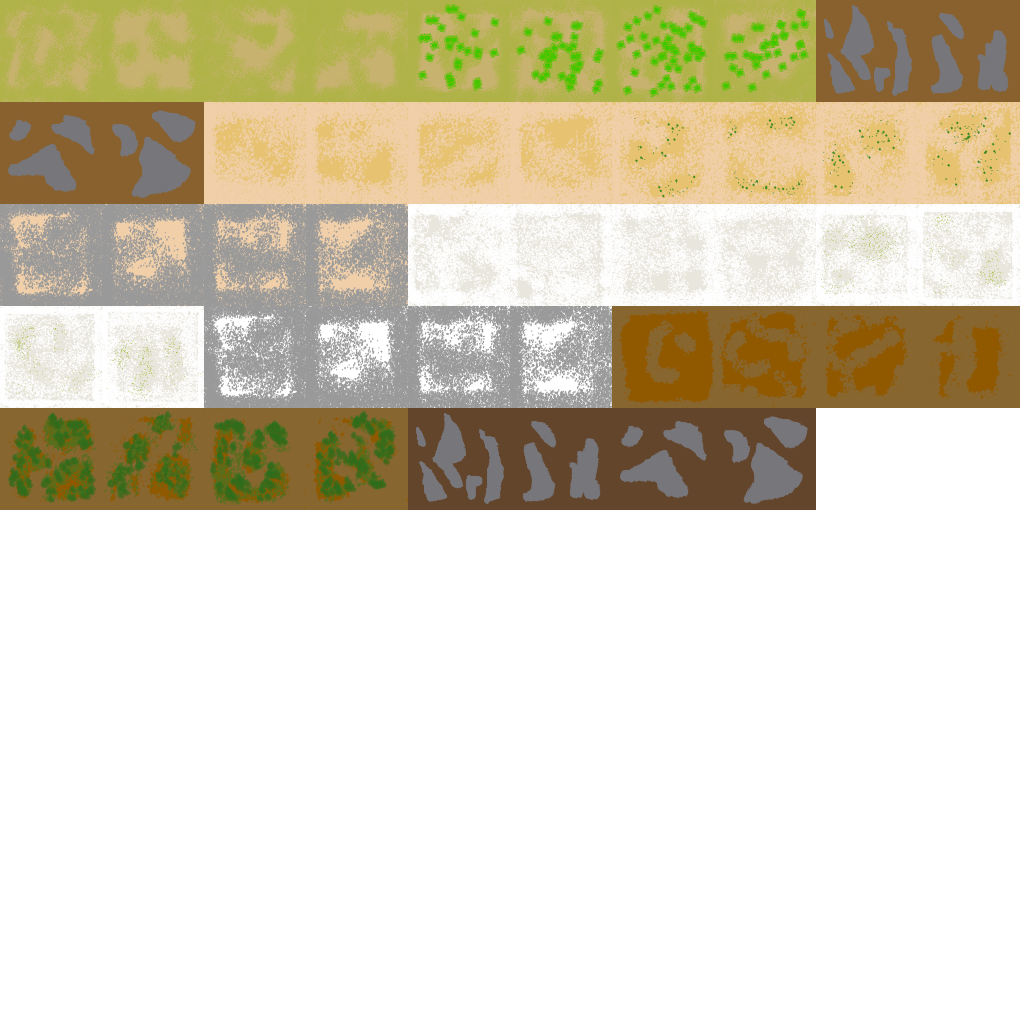
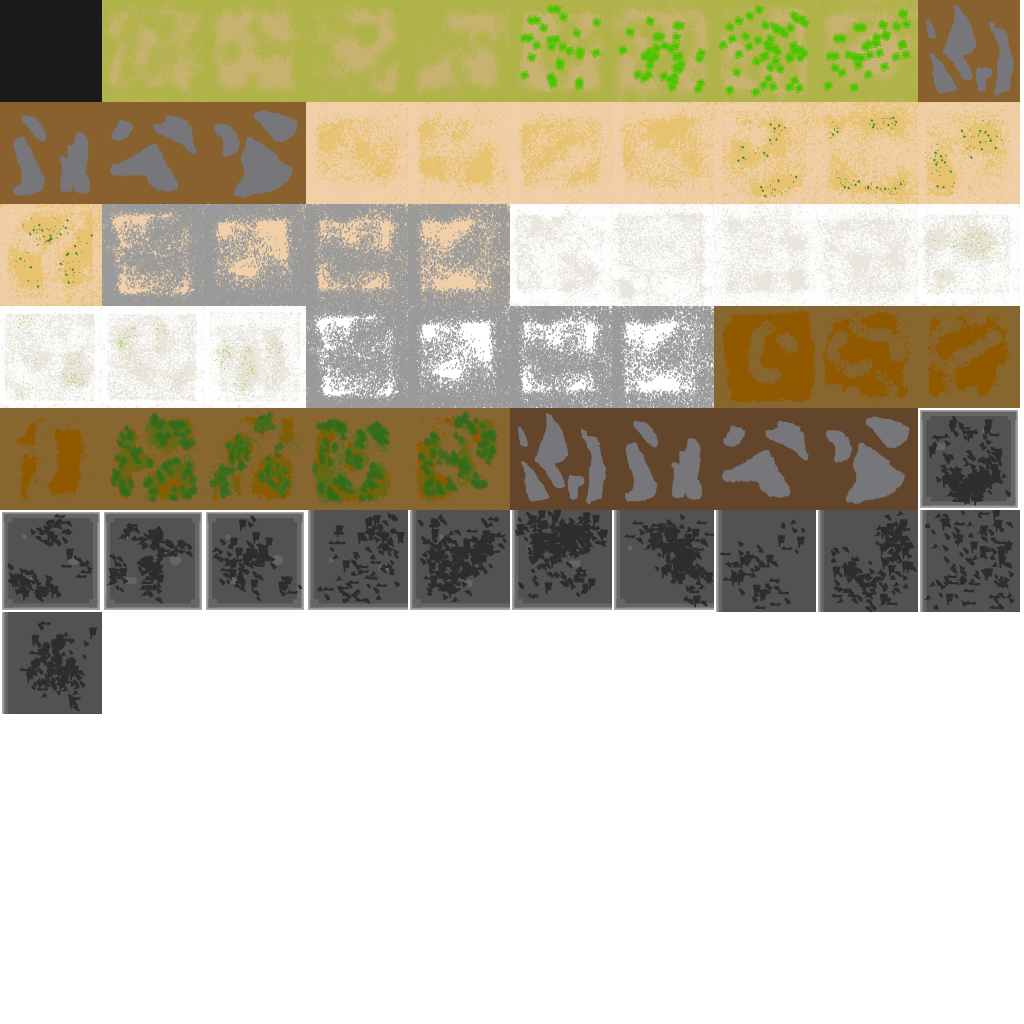
Added Buildings to Texture Atlas

diff --git a/src/graphics/testing_mode_tile_map.rs b/src/graphics/testing_mode_tile_map.rs
@@ -88,16 +88,16 @@ pub fn testing_mode_update_tile_map(
 
                     match graphics_sector_memory.sector_biome {
                         SectorBiome::Plains => {
-                            tile_graphics_index = 0;
+                            tile_graphics_index = 1;
                         }
                         SectorBiome::Desert => {
-                            tile_graphics_index = 12;
+                            tile_graphics_index = 13;
                         }
                         SectorBiome::Tundra => {
-                            tile_graphics_index = 24;
+                            tile_graphics_index = 25;
                         }
                         SectorBiome::Alpine => {
-                            tile_graphics_index = 36;
+                            tile_graphics_index = 37;
                         }
                     }
 
